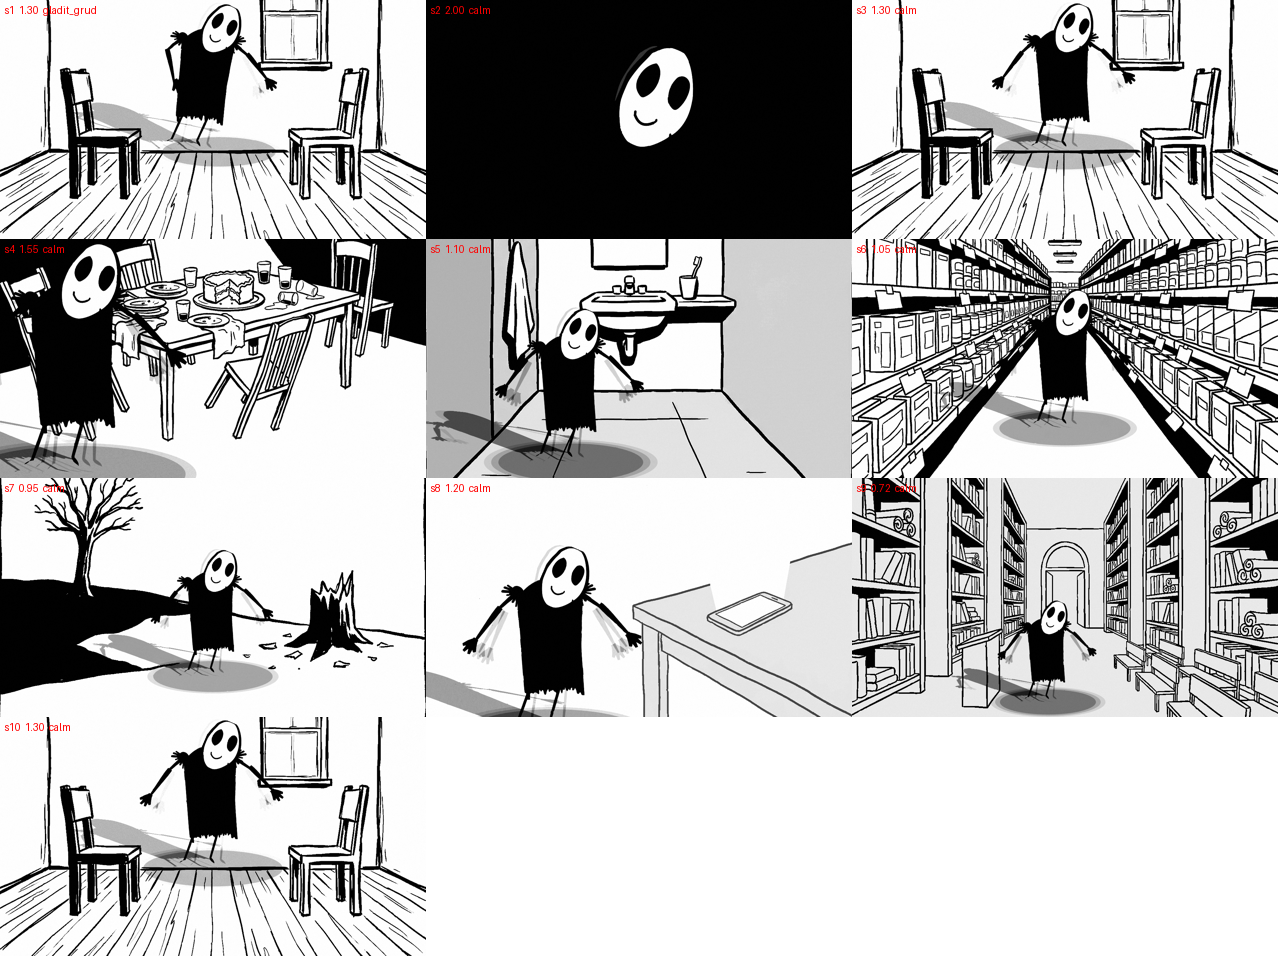
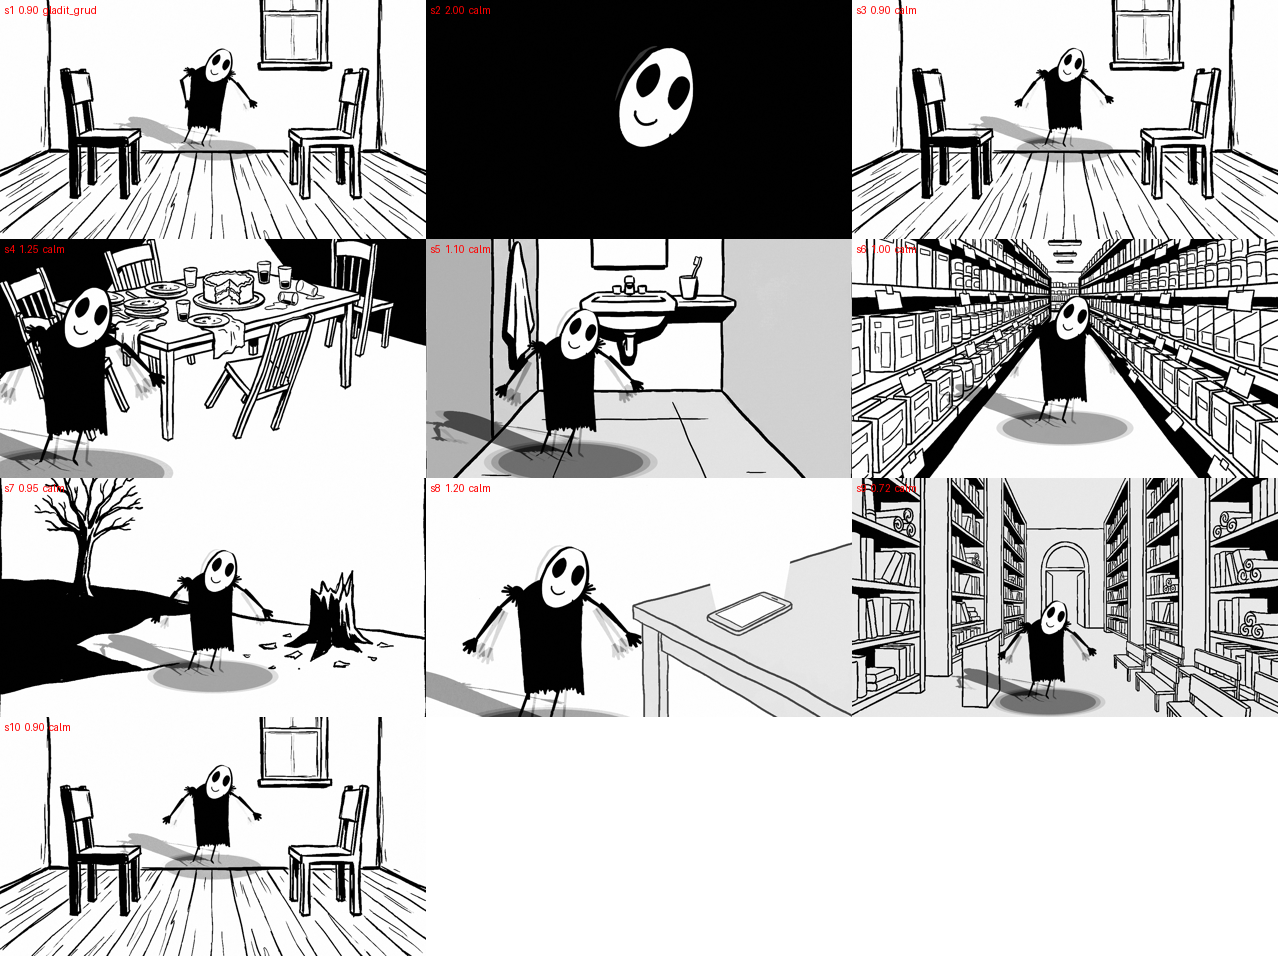
Гейт запаса над головой: макушку срезало, и приёмка этого не видела [only: lozh]
Замер готового файла «Четырёх процентов» нашёл брак, который прошёл все
шестнадцать проверок: в первой сцене макушка касалась верхней кромки.
Замер по кадрам за двадцать две секунды дал ноль запаса.

ПОЧЕМУ НЕ ПОЙМАЛИ. Контактный лист рисует ОДНУ позу на сцену — первую,
обычно `calm`. А внутри сцены персонаж играет ещё десяток слоёв, и часть
из них выше эталона: ruka_vverh, oba_vverh, raspahnul, palec_vverh
поднимают руку над головой. Смотреть на `calm` и делать вывод про сцену —
это проверять не тот кадр, ровно как было с масштабом до §XXXI.

ГЕЙТ tools/zapas.py. Ступни стоят в точке `place ... on floor`, рост
берётся у masshtab, высота каждой позы сцены снимается на стенде и
делится на эталон; макушка пересчитывается на самую высокую позу сцены.
Порог 2% высоты кадра: меньше — и на дрожании линии голова задевает
кромку в отдельных кадрах.

ПЕРВАЯ ВЕРСИЯ ГЕЙТА ВРАЛА, и я её выбросил. Она искала верхнюю строку
разницы кадров — в полосе вокруг фигуры попадают полки, стены и окна, а
монохромный проход перекидывает их полутон целыми пятнами. Гейт объявлял
срез в сцене зала, где запаса больше трети кадра. Верх теперь СЧИТАЕТСЯ,
а не ищется.

По ролику гейт нашёл четыре сцены. Масштаб выправлен, метка курса
переставлена за фигурой, контактный лист пересмотрен.

Claude-Session: https://claude.ai/code/session_01L6KYpfH3dnZra3BvQXnnqy

diff --git a/tools/zapas.py b/tools/zapas.py
@@ -1,0 +1,154 @@
+#!/usr/bin/env python3
+# -*- coding: utf-8 -*-
+"""
+zapas.py — ГЕЙТ ЗАПАСА НАД ГОЛОВОЙ: макушку не срезает верхняя кромка.
+
+ЗАЧЕМ. В «Четырёх процентах» контактный лист показал фигуру с запасом в три
+процента кадра над головой — тесно, но целиком. В готовом ролике макушка
+касалась кромки: замер по кадрам дал ноль.
+
+Причина в том, ЧТО ИМЕННО ПОКАЗЫВАЕТ КОНТАКТНЫЙ ЛИСТ. Он рисует по ОДНОМУ
+кадру на сцену и берёт первую позу — обычно `calm`. А внутри сцены персонаж
+играет ещё десяток слоёв, и часть из них ВЫШЕ эталона: `ruka_vverh`,
+`oba_vverh`, `raspahnul`, `palec_vverh` поднимают руку над головой, `na_noskah`
+поднимает всю фигуру. Смотреть глазами на `calm` и делать вывод про сцену —
+это проверять не тот кадр, ровно как было с масштабом до §XXXI.
+
+КАК СЧИТАЕТСЯ. Гейт не рендерит все позы во всех сценах — это десятки прогонов.
+Он делает дешевле и точнее:
+
+  1. одна проба на сцену, как у `masshtab`: кадр с фигурой и без, разница даёт
+     верхнюю точку силуэта в позе сцены;
+  2. высота КАЖДОЙ позы сцены снимается на стенде (`karta.render`, тот же
+     механизм, что у гейта осанки) и делится на высоту эталона;
+  3. запас пересчитывается на самую высокую позу сцены.
+
+ПОЧЕМУ ВЕРХ НЕ МЕРЯЕТСЯ ПО КАРТИНКЕ. Первая версия искала верхнюю строку
+разницы кадров — и врала: в полосе вокруг фигуры попадают полки, стены и окна,
+а монохромный проход с контрастом 2.2 перекидывает их полутон из кадра в кадр
+целыми пятнами (та же беда, что описана в `masshtab`). Гейт объявлял срез в
+сцене зала, где фигура занимает треть кадра и запаса больше трети.
+
+Поэтому верх СЧИТАЕТСЯ, а не ищется: ступни стоят в точке `place ... on floor`,
+рост берётся у `masshtab` (самый длинный сплошной блок строк — единственная
+мерка, которая на этих кадрах не врёт), макушка это разница. Сцены без
+`on floor` пропускаются: там `place` задаёт не ступни, а центр.
+
+ПОРОГ 2% ВЫСОТЫ КАДРА. Меньше — и на дрожании линии (`line-boil`, `gate-weave`)
+макушка начинает задевать кромку в отдельных кадрах, а это видно как обрезанная
+голова, даже если в среднем всё «влезает».
+
+Использование:
+    python3 tools/zapas.py examples/lektorij/lozh.anim
+"""
+
+import argparse
+import glob
+import os
+import re
+import shutil
+import subprocess
+import sys
+import tempfile
+from pathlib import Path
+
+ROOT = Path(__file__).resolve().parent.parent
+sys.path.insert(0, str(ROOT / "tools"))
+
+from mizanscena import IMPORT_CHAR, IMPORT_SET, PLACE, SCENE, scenes  # noqa: E402
+import masshtab as M                                                  # noqa: E402
+
+ZAPAS = 0.02          # доля высоты кадра, ниже которой макушка считается срезанной
+POZA = re.compile(r'^\s*\w+\s+(?:pose|overlays)\s+"([^"]+)"', re.M)
+
+
+def pozy_scen(text):
+    """{имя сцены: [позы, которые она играет]} — включая накладки."""
+    out, konec = {}, len(text)
+    granicy = [(m.group(1), m.start()) for m in SCENE.finditer(text)]
+    for i, (name, start) in enumerate(granicy):
+        stop = granicy[i + 1][1] if i + 1 < len(granicy) else konec
+        out[name] = POZA.findall(text[start:stop])
+    return out
+
+
+def main(argv):
+    ap = argparse.ArgumentParser(description="Гейт запаса над головой")
+    ap.add_argument("anim")
+    a = ap.parse_args(argv)
+
+    src = Path(a.anim)
+    text = src.read_text(encoding="utf-8")
+    base = src.parent
+    sets = {n: str((base / p).resolve()) for n, p in IMPORT_SET.findall(text)}
+    chars = {n: str((base / p).resolve()) for n, p in IMPORT_CHAR.findall(text)}
+    scs = [s for s in scenes(text) if s["set"] and s["place"]]
+    if not scs:
+        print("  запас: сцен с расстановкой нет — проверять нечего")
+        return 0
+
+    engine = shutil.which("animdsl") or str(ROOT / "target/release/animdsl")
+    rig = list(chars.values())[0] if chars else None
+    if not rig:
+        print("  запас: персонаж не импортирован", file=sys.stderr)
+        return 1
+
+    from karta import render as stand_render          # noqa: E402
+    import numpy as np
+
+    def rost_pozy(p):
+        g = stand_render(rig, p, 0.60, 0.90)
+        ys, _ = np.nonzero(g < 90)
+        return int(ys.max() - ys.min() + 1) if len(ys) else None
+
+    igra = pozy_scen(text)
+    etalon = rost_pozy("calm") or 1
+    kesh = {}
+
+    bed = []
+    with tempfile.TemporaryDirectory() as td:
+        try:
+            fs = M.render(engine, M.probe_lines(chars, sets, scs, True), td, "s")
+            fb = M.render(engine, M.probe_lines(chars, sets, scs, False), td, "b")
+        except RuntimeError as e:
+            print(f"  запас: пробный рендер не собрался\n{e}", file=sys.stderr)
+            return 1
+        ns, nb = len(fs) // len(scs), len(fb) // len(scs)
+        for i, s in enumerate(scs):
+            if "on floor" not in s["place"]:
+                continue          # `place` задаёт не ступни, а центр
+            mx = re.search(r"at\s*\(\s*([\d.]+)\s*,\s*([\d.]+)", s["place"])
+            if not mx:
+                continue
+            x_dolya, stupni = float(mx.group(1)), float(mx.group(2))
+            vysota = M.rost(fs[(i + 1) * ns - 1], fb[(i + 1) * nb - 1], x_dolya)
+            if vysota is None:
+                continue
+            # самая высокая поза сцены относительно эталона
+            k = 1.0
+            for p in igra.get(s["name"], []):
+                if p not in kesh:
+                    kesh[p] = rost_pozy(p)
+                if kesh[p]:
+                    k = max(k, kesh[p] / etalon)
+            #  Макушка = ступни минус рост, пересчитанный на самую высокую позу.
+            #  Рост у `masshtab` занижен на белую маску примерно на пятую часть
+            #  (он не видит её на светлом фоне), поэтому берём с запасом ×1.2 —
+            #  ошибаться здесь можно только в сторону осторожности.
+            zapas = stupni - vysota * 1.2 * k
+            if zapas < ZAPAS:
+                bed.append(f"{s['name']} ({s['set']}): запас {zapas:.3f} кадра "
+                           f"при самой высокой позе (×{k:.2f}) — макушку срежет")
+
+    if bed:
+        print("  ЗАПАСА НАД ГОЛОВОЙ НЕТ:")
+        for b in bed:
+            print(f"    · {b}")
+        return 1
+    print(f"  запас над головой: во всех {len(scs)} сценах не меньше "
+          f"{ZAPAS * 100:.0f}% кадра на самой высокой позе")
+    return 0
+
+
+if __name__ == "__main__":
+    sys.exit(main(sys.argv[1:]))

diff --git a/tools/pered_renderom.py b/tools/pered_renderom.py
@@ -81,6 +81,11 @@ GATES = [
     # которое держится на внимательности, рано или поздно не держится.
     ("масштаб: фигура человеческого роста для локации", ["tools/masshtab.py"], False),
     ("реквизит: вещь объявлена именем", ["tools/rekvizit.py"], None),
+    # ЗАПАС НАД ГОЛОВОЙ — гейт, выросший из «Четырёх процентов». Контактный
+    # лист показал три процента кадра над макушкой (тесно, но целиком), а в
+    # готовом файле замер по кадрам дал ноль: лист рисует ОДНУ позу на сцену,
+    # обычно `calm`, а внутри сцены персонаж играет слои выше эталона.
+    ("запас: макушку не срезает кромка", ["tools/zapas.py"], False),
     # КОНТАКТНЫЙ ЛИСТ МИЗАНСЦЕН — не гейт, а глаза. Машина не скажет, срезала ли
     # столешница фигуру по грудь и туда ли показывает палец: это видно и только
     # видно. Из переделок, стоивших полного прогона завода, больше половины были
@@ -118,11 +123,13 @@ TEHNICHESKIE = {
     "масштаб: фигура человеческого роста для локации",
     "реквизит: вещь объявлена именем",
     "разворот: профиль не врёт",
+    "запас: макушку не срезает кромка",
 }
 
 # Гейты, которые гоняют движок на стенде: дорогие, пропускаются по --bystro.
 DOROGIE = {"осанка: фигура не приседает", "разворот: профиль не врёт",
-           "масштаб: фигура человеческого роста для локации"}
+           "масштаб: фигура человеческого роста для локации",
+           "запас: макушку не срезает кромка"}
 
 
 def run(cmd):
